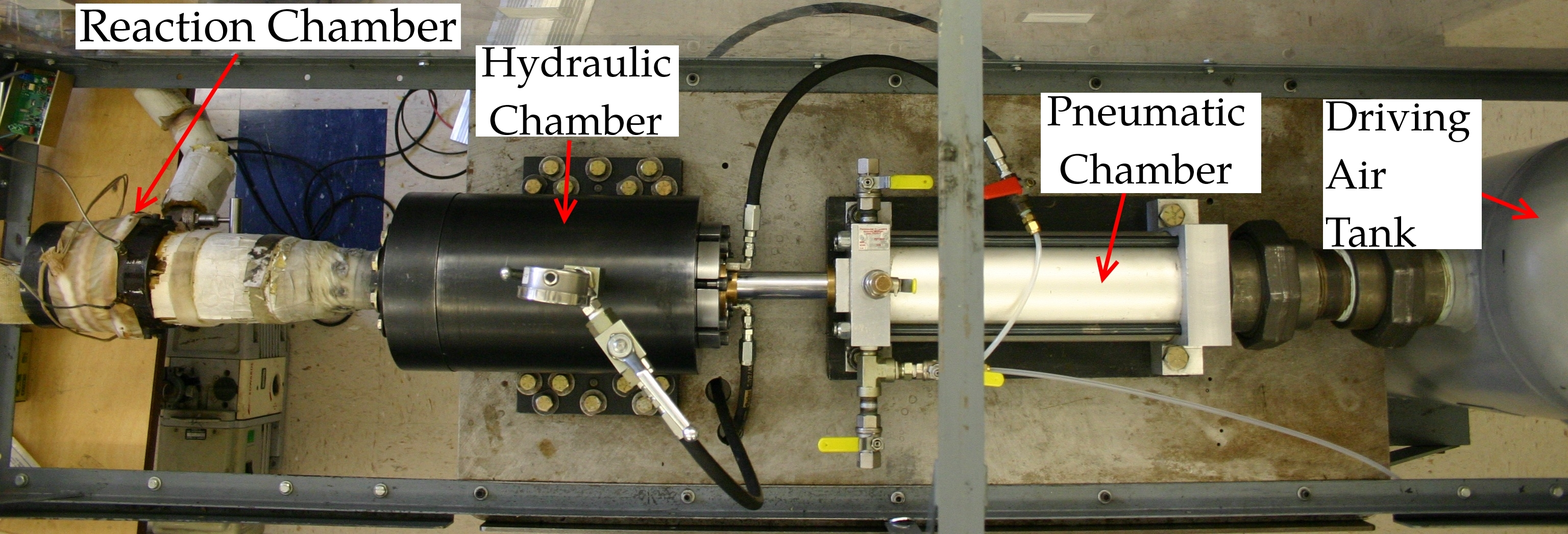
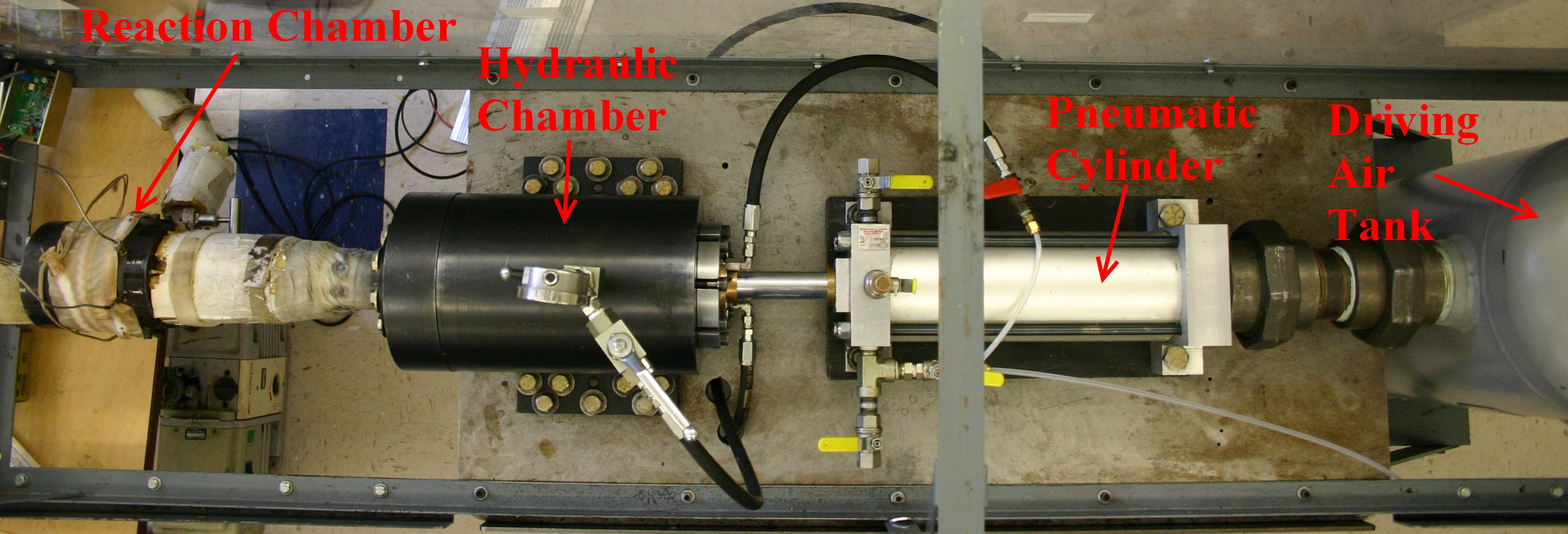
Switch rcm-photo to writing on picture with nodes

Changed region(s): [[0.0312, 0.0, 0.4375, 0.2748], [0.8438, 0.1832, 0.9688, 0.4885], [0.6562, 0.1527, 0.8125, 0.3664]]

diff --git a/figures/02-Experimental-Facilities/rcm-photo/rcm-photo.tex b/figures/02-Experimental-Facilities/rcm-photo/rcm-photo.tex
@@ -1,0 +1,15 @@
+\documentclass[tikz]{standalone}
+
+\input{../../font-choice}
+
+\begin{document}
+\begin{tikzpicture}
+    \node[anchor=south west, inner sep=0] at (0,0) (image) {\includegraphics{rcm-photo.jpg}};
+    \begin{scope}[x={(image.south east)}, y={(image.north west)}, every node/.append style={fill=white, anchor=south west, font=\fontsize{36}{44}\selectfont, align=left, inner sep=2ex}]
+        \node at (0.05,0.89) {Reaction Chamber};
+        \node at (0.305,0.73) {Hydraulic\\Chamber};
+        \node at (0.66,0.645) {Pneumatic\\Chamber};
+        \node at (0.845,0.55) {Driving\\Air\\Tank};
+    \end{scope}
+\end{tikzpicture}
+\end{document}
